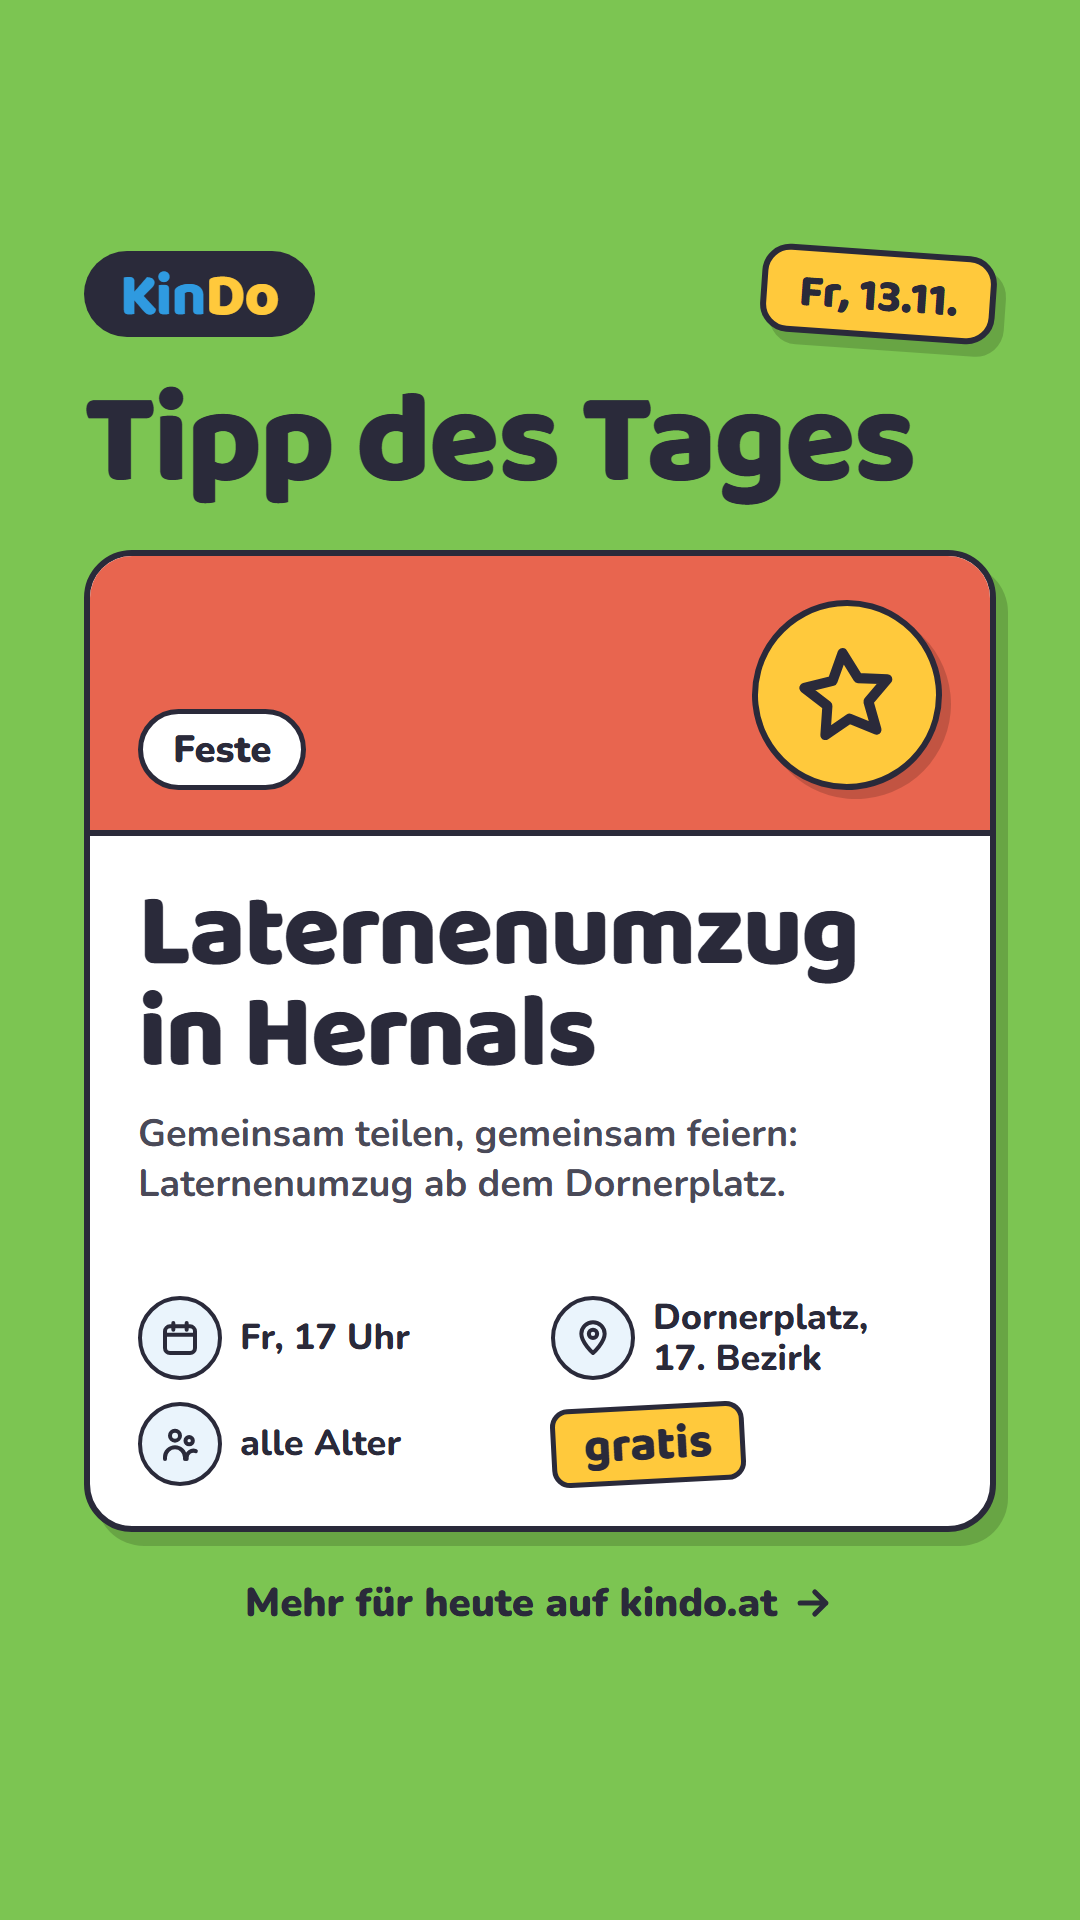
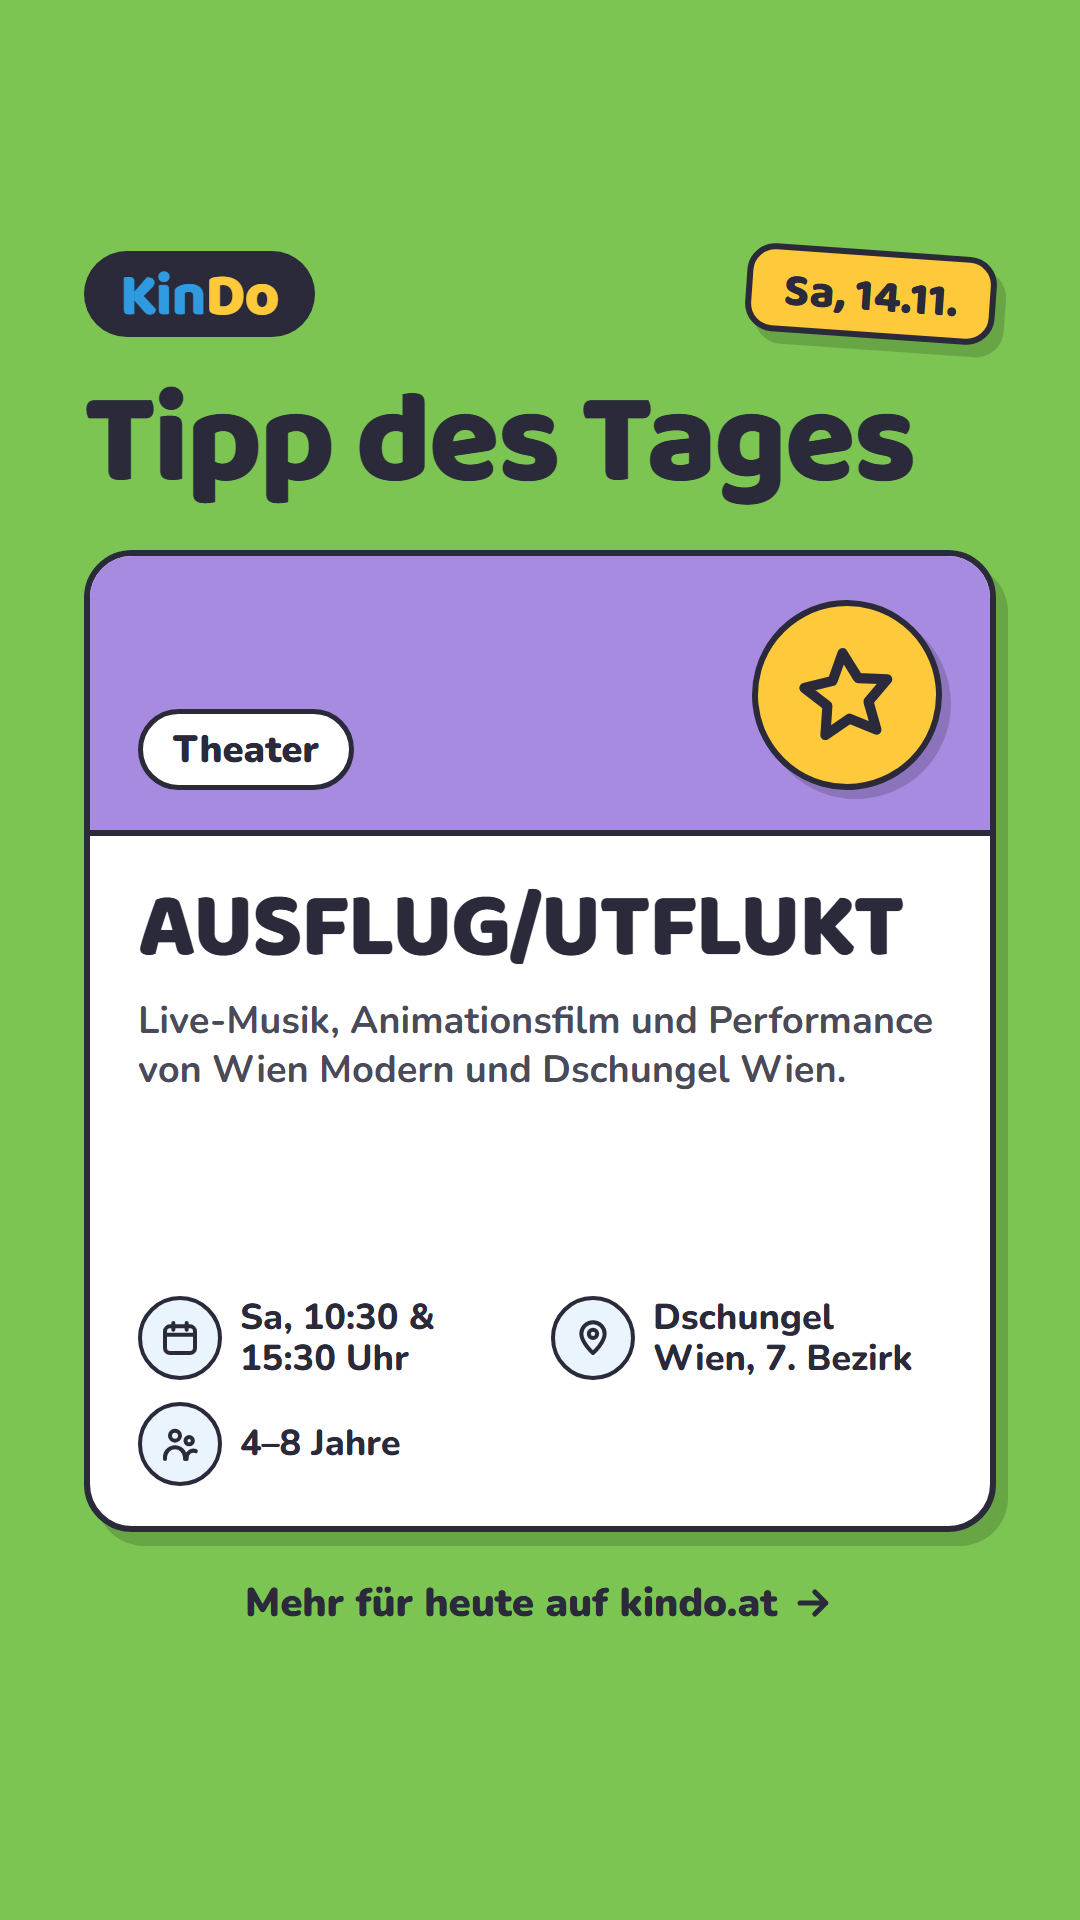
Story Tipp des Tages 2026-11-14

diff --git a/story/README.md b/story/README.md
@@ -1,8 +1,8 @@
-# Tipp des Tages – 13.11.
+# Tipp des Tages – 14.11.
 
-![Tipp des Tages: Laternenumzug in Hernals](2026-11-13/01.png)
+![Tipp des Tages: AUSFLUG/UTFLUKT](2026-11-14/01.png)
 
-**Link für den Sticker:** https://www.kindo.at/veranstaltungen/290321
+**Link für den Sticker:** https://www.kindo.at/veranstaltungen/157071
 
 So geht's: Bild antippen und speichern, in Instagram als Story posten, Link-Sticker mit dem Link oben dazugeben.
 
